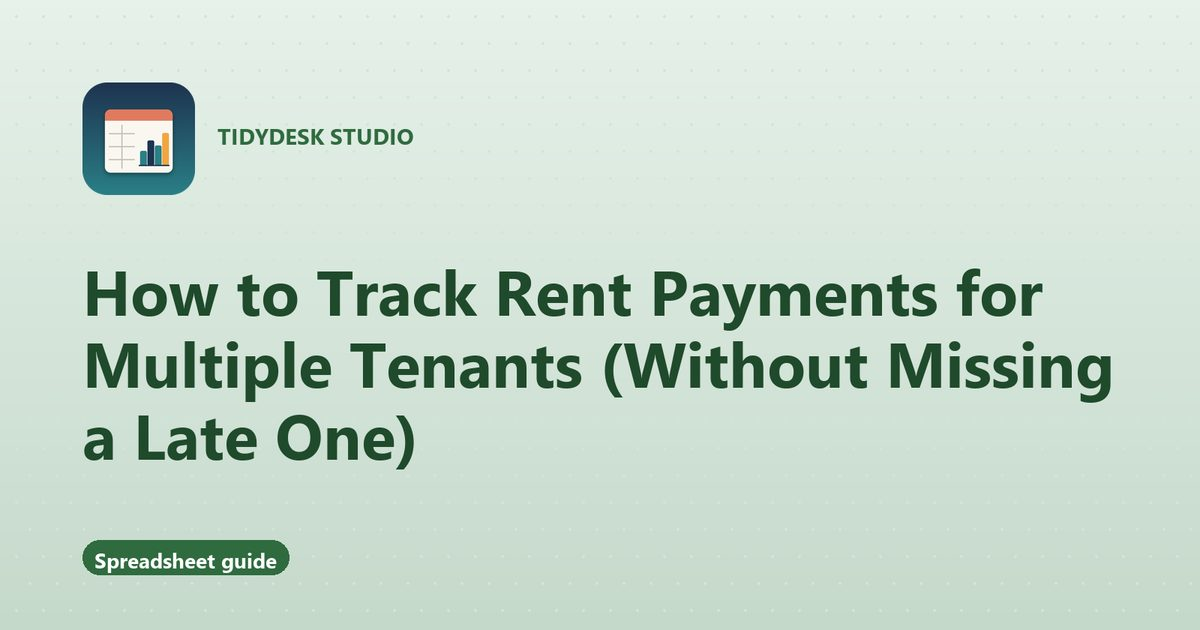
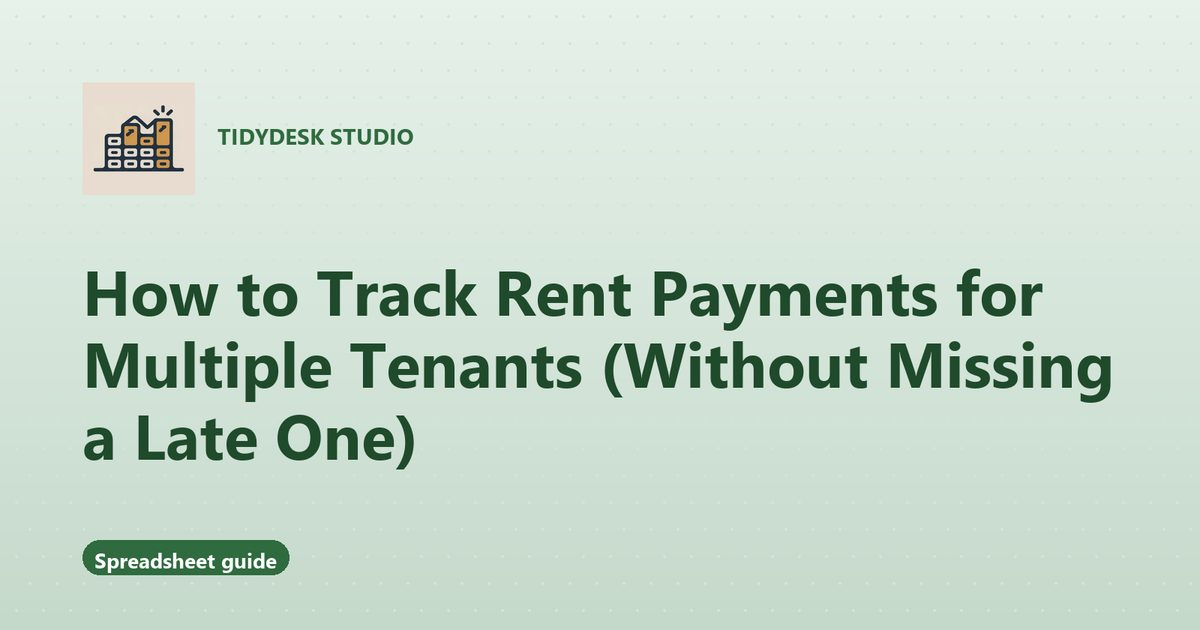
Update site 2026-10-14T17:18:44

Changed region(s): [[0.0617, 0.1206, 0.185, 0.3317]]

diff --git a/templates/index.html b/templates/index.html
@@ -1,10 +1,10 @@
 <!doctype html><html lang="en"><head><meta charset="utf-8"><meta name="google-site-verification" content="f2yMZH7r8XQP9Kbyf-WrSy3Cap5xHc4gH3fEAxaJcUY"><meta name="viewport" content="width=device-width,initial-scale=1">
 <title>All Templates | TidyDesk Studio</title><meta name="description" content="Ready-to-use Excel and Google Sheets templates: invoices, rent, budgets, inventory, clients and more."><link rel="canonical" href="https://tidydeskstudio.github.io/templates/">
-<meta property="og:title" content="All Templates | TidyDesk Studio"><meta property="og:description" content="Ready-to-use Excel and Google Sheets templates: invoices, rent, budgets, inventory, clients and more."><meta property="og:image" content="https://tidydeskstudio.github.io/img/logo.png"><meta property="og:url" content="https://tidydeskstudio.github.io/templates/">
+<meta property="og:title" content="All Templates | TidyDesk Studio"><meta property="og:description" content="Ready-to-use Excel and Google Sheets templates: invoices, rent, budgets, inventory, clients and more."><meta property="og:image" content="https://tidydeskstudio.github.io/img/og.png"><meta property="og:url" content="https://tidydeskstudio.github.io/templates/">
 <meta name="twitter:card" content="summary_large_image"><link rel="icon" href="/img/logo.png"><link rel="alternate" type="application/rss+xml" href="/feed.xml" title="TidyDesk Studio">
 <link rel="stylesheet" href="/style.css"></head><body>
 <header class="top"><div class="in"><a class="brand" href="/"><img src="/img/logo.png" alt="">TidyDesk Studio</a>
 <nav><a href="/">Guides</a><a href="/templates/">Templates</a></nav></div></header>
-<div class="wrap"><section class="hero"><h1>All templates</h1><p>Every template works in Excel and Google Sheets, includes sample data and a quick start guide.</p></section><div class="grid"><div class="card"><img src="/img/products/TD-0015.jpg" alt="Job Application Tracker" loading="lazy"><div class="b"><h3>Job Application Tracker</h3><p>Stay on top of every application and follow-up - and learn which job sources actually reply.</p><div class="btns"><a class="btn alt" href="https://payhip.com/b/9mbPH">Get it on Payhip</a></div></div></div><div class="card"><img src="/img/products/TD-0014.jpg" alt="Tutor Lesson &amp; Payment Tracker" loading="lazy"><div class="b"><h3>Tutor Lesson &amp; Payment Tracker</h3><p>Every lesson, every rate and every unpaid fee - plus a monthly total for each family.</p><div class="btns"><a class="btn alt" href="https://payhip.com/b/scAxP">Get it on Payhip</a></div></div></div><div class="card"><img src="/img/products/TD-0013.jpg" alt="Personal Trainer Client &amp; Session Tracker" loading="lazy"><div class="b"><h3>Personal Trainer Client &amp; Session Tracker</h3><p>Know exactly how many sessions each client has left - and who owes you money.</p><div class="btns"><a class="btn alt" href="https://payhip.com/b/rY05O">Get it on Payhip</a></div></div></div><div class="card"><img src="/img/products/TD-0012.jpg" alt="Freelance Client CRM &amp; Sales Pipeline" loading="lazy"><div class="b"><h3>Freelance Client CRM &amp; Sales Pipeline</h3><p>A simple CRM for freelancers: leads, follow-ups, weighted pipeline and win rate - no subscription.</p><div class="btns"><a class="btn alt" href="https://payhip.com/b/6C20t">Get it on Payhip</a></div></div></div><div class="card"><img src="/img/products/TD-0011.jpg" alt="Content Creator Brand Deal Tracker" loading="lazy"><div class="b"><h3>Content Creator Brand Deal Tracker</h3><p>Keep every sponsorship organised - from first pitch to paid invoice.</p><div class="btns"><a class="btn alt" href="https://payhip.com/b/kjqQZ">Get it on Payhip</a></div></div></div><div class="card"><img src="/img/products/TD-0010.jpg" alt="Business Mileage Log &amp; Deduction Tracker" loading="lazy"><div class="b"><h3>Business Mileage Log &amp; Deduction Tracker</h3><p>A simple mileage log that adds up your business distance and claim value for tax time.</p><div class="btns"><a class="btn" href="https://tidydeskstudio.gumroad.com/l/business-mileage-log">Get it on Gumroad</a><a class="btn alt" href="https://payhip.com/b/9zkqJ">Get it on Payhip</a></div></div></div><div class="card"><img src="/img/products/TD-0009.jpg" alt="Debt Payoff Tracker" loading="lazy"><div class="b"><h3>Debt Payoff Tracker</h3><p>Watch every debt shrink. Payments, balances, % paid off and months left - all in one sheet.</p><div class="btns"><a class="btn" href="https://tidydeskstudio.gumroad.com/l/debt-payoff-tracker">Get it on Gumroad</a><a class="btn alt" href="https://payhip.com/b/cjfL3">Get it on Payhip</a></div></div></div><div class="card"><img src="/img/products/TD-0008.jpg" alt="Household Budget &amp; Bill Tracker" loading="lazy"><div class="b"><h3>Household Budget &amp; Bill Tracker</h3><p>A calm, simple monthly budget: categories, bills with due dates, and a clear view of where your money goes.</p><div class="btns"><a class="btn" href="https://tidydeskstudio.gumroad.com/l/household-budget-bill-tracker">Get it on Gumroad</a><a class="btn alt" href="https://payhip.com/b/NSqpe">Get it on Payhip</a></div></div></div><div class="card"><img src="/img/products/TD-0007.jpg" alt="Wedding Budget &amp; Guest List Planner" loading="lazy"><div class="b"><h3>Wedding Budget &amp; Guest List Planner</h3><p>One planner for the money and the guests: budget, supplier payments, RSVPs and meals.</p><div class="btns"><a class="btn" href="https://tidydeskstudio.gumroad.com/l/wedding-budget-guest-planner">Get it on Gumroad</a><a class="btn alt" href="https://payhip.com/b/q8N2k">Get it on Payhip</a></div></div></div><div class="card"><img src="/img/products/TD-0006.jpg" alt="Home Bakery Order &amp; Profit Tracker" loading="lazy"><div class="b"><h3>Home Bakery Order &amp; Profit Tracker</h3><p>Every custom order, deposit and pickup date in one place - plus what you actually earn.</p><div class="btns"><a class="btn" href="https://tidydeskstudio.gumroad.com/l/home-bakery-order-tracker">Get it on Gumroad</a><a class="btn alt" href="https://payhip.com/b/TrdQ7">Get it on Payhip</a></div></div></div><div class="card"><img src="/img/products/TD-0005.jpg" alt="Cleaning Business Job &amp; Client Tracker" loading="lazy"><div class="b"><h3>Cleaning Business Job &amp; Client Tracker</h3><p>Run your cleaning business from one sheet - jobs, clients, unpaid invoices and real profit.</p><div class="btns"><a class="btn" href="https://tidydeskstudio.gumroad.com/l/cleaning-business-job-client-tracker">Get it on Gumroad</a><a class="btn alt" href="https://payhip.com/b/ATamw">Get it on Payhip</a></div></div></div><div class="card"><img src="/img/products/TD-0004.jpg" alt="Handmade Product Pricing Calculator" loading="lazy"><div class="b"><h3>Handmade Product Pricing Calculator</h3><p>Stop guessing your prices. Turn materials, time and fees into wholesale and retail prices that actually pay you.</p><div class="btns"><a class="btn" href="https://tidydeskstudio.gumroad.com/l/handmade-product-pricing-calculator">Get it on Gumroad</a><a class="btn alt" href="https://payhip.com/b/7B1Kb">Get it on Payhip</a></div></div></div><div class="card"><img src="/img/products/TD-0003.jpg" alt="Reseller Inventory &amp; Profit Tracker" loading="lazy"><div class="b"><h3>Reseller Inventory &amp; Profit Tracker</h3><p>See your real profit on every flip - after fees, shipping and expenses.</p><div class="btns"><a class="btn" href="https://tidydeskstudio.gumroad.com/l/reseller-inventory-profit-tracker">Get it on Gumroad</a><a class="btn alt" href="https://payhip.com/b/MxQuJ">Get it on Payhip</a></div></div></div><div class="card"><img src="/img/products/TD-0002.jpg" alt="Landlord Rental Property Tracker" loading="lazy"><div class="b"><h3>Landlord Rental Property Tracker</h3><p>Know which rentals actually make money - rent, late payments, expenses and yield per property.</p><div class="btns"><a class="btn" href="https://tidydeskstudio.gumroad.com/l/landlord-rental-property-tracker">Get it on Gumroad</a><a class="btn alt" href="https://payhip.com/b/vM5tR">Get it on Payhip</a></div></div></div><div class="card"><img src="/img/products/TD-0001.jpg" alt="Freelancer Invoice &amp; Payment Tracker" loading="lazy"><div class="b"><h3>Freelancer Invoice &amp; Payment Tracker</h3><p>Track every invoice, spot late payers and see your real income - in Excel or Google Sheets.</p><div class="btns"><a class="btn" href="https://tidydeskstudio.gumroad.com/l/freelancer-invoice-payment-tracker">Get it on Gumroad</a><a class="btn alt" href="https://payhip.com/b/x9Auv">Get it on Payhip</a></div></div></div></div></div>
+<div class="wrap"><section class="hero"><h1>All templates</h1><p>Every template works in Excel and Google Sheets, includes sample data and a quick start guide.</p></section><div class="grid"><div class="card"><img src="/img/products/TD-0025.jpg" alt="Vehicle Maintenance &amp; Fuel Log" loading="lazy"><div class="b"><h3>Vehicle Maintenance &amp; Fuel Log</h3><p>Fuel, services and maintenance reminders for every car you own - with real cost per mile or km.</p><div class="btns"><a class="btn" href="https://tidydeskstudio.gumroad.com/l/vehicle-maintenance-fuel-log">Get it on Gumroad</a></div></div></div><div class="card"><img src="/img/products/TD-0024.jpg" alt="Home Maintenance Schedule &amp; Repair Log" loading="lazy"><div class="b"><h3>Home Maintenance Schedule &amp; Repair Log</h3><p>A simple home maintenance schedule with repair records, contractors and warranty alerts.</p><div class="btns"><a class="btn" href="https://tidydeskstudio.gumroad.com/l/home-maintenance-schedule-repair-log">Get it on Gumroad</a></div></div></div><div class="card"><img src="/img/products/TD-0023.jpg" alt="Dog Grooming Appointment &amp; Client Tracker" loading="lazy"><div class="b"><h3>Dog Grooming Appointment &amp; Client Tracker</h3><p>Every dog, owner, coat note and appointment in one place - with rebook dates and no-show tracking.</p><div class="btns"><a class="btn" href="https://tidydeskstudio.gumroad.com/l/dog-grooming-appointment-tracker">Get it on Gumroad</a></div></div></div><div class="card"><img src="/img/products/TD-0022.jpg" alt="Real Estate Agent Lead &amp; Commission Tracker" loading="lazy"><div class="b"><h3>Real Estate Agent Lead &amp; Commission Tracker</h3><p>Every lead, follow-up and commission in one sheet - see what&#x27;s coming and what you&#x27;re owed.</p><div class="btns"><a class="btn" href="https://tidydeskstudio.gumroad.com/l/real-estate-agent-lead-commission-tracker">Get it on Gumroad</a></div></div></div><div class="card"><img src="/img/products/TD-0021.jpg" alt="Volunteer Hours &amp; Shift Tracker" loading="lazy"><div class="b"><h3>Volunteer Hours &amp; Shift Tracker</h3><p>Track volunteer shifts and hours by person, program and month - ready for grant reports.</p><div class="btns"><a class="btn" href="https://tidydeskstudio.gumroad.com/l/volunteer-hours-shift-tracker">Get it on Gumroad</a></div></div></div><div class="card"><img src="/img/products/TD-0020.jpg" alt="Food Truck &amp; Small Kitchen Recipe Cost Calculator" loading="lazy"><div class="b"><h3>Food Truck &amp; Small Kitchen Recipe Cost Calculator</h3><p>Know the real cost of every plate - and when a price rise means it&#x27;s time to re-price.</p><div class="btns"><a class="btn" href="https://tidydeskstudio.gumroad.com/l/food-truck-recipe-cost-calculator">Get it on Gumroad</a></div></div></div><div class="card"><img src="/img/products/TD-0019.jpg" alt="Photographer Client Booking &amp; Shoot Tracker" loading="lazy"><div class="b"><h3>Photographer Client Booking &amp; Shoot Tracker</h3><p>Every inquiry, shoot, deposit and gallery deadline in one place - so nothing slips.</p><div class="btns"><a class="btn" href="https://tidydeskstudio.gumroad.com/l/photographer-client-shoot-tracker">Get it on Gumroad</a></div></div></div><div class="card"><img src="/img/products/TD-0018.jpg" alt="Lawn Care Job, Route &amp; Client Tracker" loading="lazy"><div class="b"><h3>Lawn Care Job, Route &amp; Client Tracker</h3><p>Clients, routes, quotes and unpaid jobs for your lawn care business - in one simple sheet.</p><div class="btns"><a class="btn" href="https://tidydeskstudio.gumroad.com/l/lawn-care-job-route-tracker">Get it on Gumroad</a></div></div></div><div class="card"><img src="/img/products/TD-0017.jpg" alt="Vacation Rental Host Booking &amp; Expense Tracker" loading="lazy"><div class="b"><h3>Vacation Rental Host Booking &amp; Expense Tracker</h3><p>Know what each rental really earns - after channel fees, cleaning and running costs.</p><div class="btns"><a class="btn" href="https://tidydeskstudio.gumroad.com/l/vacation-rental-host-tracker">Get it on Gumroad</a></div></div></div><div class="card"><img src="/img/products/TD-0016.jpg" alt="Holiday Gift Budget &amp; Shopping Tracker" loading="lazy"><div class="b"><h3>Holiday Gift Budget &amp; Shopping Tracker</h3><p>Keep holiday spending on track - a budget per person, every gift from idea to wrapped.</p><div class="btns"><a class="btn" href="https://tidydeskstudio.gumroad.com/l/holiday-gift-budget-tracker">Get it on Gumroad</a></div></div></div><div class="card"><img src="/img/products/TD-0015.jpg" alt="Job Application Tracker" loading="lazy"><div class="b"><h3>Job Application Tracker</h3><p>Stay on top of every application and follow-up - and learn which job sources actually reply.</p><div class="btns"><a class="btn alt" href="https://payhip.com/b/9mbPH">Get it on Payhip</a></div></div></div><div class="card"><img src="/img/products/TD-0014.jpg" alt="Tutor Lesson &amp; Payment Tracker" loading="lazy"><div class="b"><h3>Tutor Lesson &amp; Payment Tracker</h3><p>Every lesson, every rate and every unpaid fee - plus a monthly total for each family.</p><div class="btns"><a class="btn alt" href="https://payhip.com/b/scAxP">Get it on Payhip</a></div></div></div><div class="card"><img src="/img/products/TD-0013.jpg" alt="Personal Trainer Client &amp; Session Tracker" loading="lazy"><div class="b"><h3>Personal Trainer Client &amp; Session Tracker</h3><p>Know exactly how many sessions each client has left - and who owes you money.</p><div class="btns"><a class="btn alt" href="https://payhip.com/b/rY05O">Get it on Payhip</a></div></div></div><div class="card"><img src="/img/products/TD-0012.jpg" alt="Freelance Client CRM &amp; Sales Pipeline" loading="lazy"><div class="b"><h3>Freelance Client CRM &amp; Sales Pipeline</h3><p>A simple CRM for freelancers: leads, follow-ups, weighted pipeline and win rate - no subscription.</p><div class="btns"><a class="btn alt" href="https://payhip.com/b/6C20t">Get it on Payhip</a></div></div></div><div class="card"><img src="/img/products/TD-0011.jpg" alt="Content Creator Brand Deal Tracker" loading="lazy"><div class="b"><h3>Content Creator Brand Deal Tracker</h3><p>Keep every sponsorship organised - from first pitch to paid invoice.</p><div class="btns"><a class="btn alt" href="https://payhip.com/b/kjqQZ">Get it on Payhip</a></div></div></div><div class="card"><img src="/img/products/TD-0010.jpg" alt="Business Mileage Log &amp; Deduction Tracker" loading="lazy"><div class="b"><h3>Business Mileage Log &amp; Deduction Tracker</h3><p>A simple mileage log that adds up your business distance and claim value for tax time.</p><div class="btns"><a class="btn" href="https://tidydeskstudio.gumroad.com/l/business-mileage-log">Get it on Gumroad</a><a class="btn alt" href="https://payhip.com/b/9zkqJ">Get it on Payhip</a></div></div></div><div class="card"><img src="/img/products/TD-0009.jpg" alt="Debt Payoff Tracker" loading="lazy"><div class="b"><h3>Debt Payoff Tracker</h3><p>Watch every debt shrink. Payments, balances, % paid off and months left - all in one sheet.</p><div class="btns"><a class="btn" href="https://tidydeskstudio.gumroad.com/l/debt-payoff-tracker">Get it on Gumroad</a><a class="btn alt" href="https://payhip.com/b/cjfL3">Get it on Payhip</a></div></div></div><div class="card"><img src="/img/products/TD-0008.jpg" alt="Household Budget &amp; Bill Tracker" loading="lazy"><div class="b"><h3>Household Budget &amp; Bill Tracker</h3><p>A calm, simple monthly budget: categories, bills with due dates, and a clear view of where your money goes.</p><div class="btns"><a class="btn" href="https://tidydeskstudio.gumroad.com/l/household-budget-bill-tracker">Get it on Gumroad</a><a class="btn alt" href="https://payhip.com/b/NSqpe">Get it on Payhip</a></div></div></div><div class="card"><img src="/img/products/TD-0007.jpg" alt="Wedding Budget &amp; Guest List Planner" loading="lazy"><div class="b"><h3>Wedding Budget &amp; Guest List Planner</h3><p>One planner for the money and the guests: budget, supplier payments, RSVPs and meals.</p><div class="btns"><a class="btn" href="https://tidydeskstudio.gumroad.com/l/wedding-budget-guest-planner">Get it on Gumroad</a><a class="btn alt" href="https://payhip.com/b/q8N2k">Get it on Payhip</a></div></div></div><div class="card"><img src="/img/products/TD-0006.jpg" alt="Home Bakery Order &amp; Profit Tracker" loading="lazy"><div class="b"><h3>Home Bakery Order &amp; Profit Tracker</h3><p>Every custom order, deposit and pickup date in one place - plus what you actually earn.</p><div class="btns"><a class="btn" href="https://tidydeskstudio.gumroad.com/l/home-bakery-order-tracker">Get it on Gumroad</a><a class="btn alt" href="https://payhip.com/b/TrdQ7">Get it on Payhip</a></div></div></div><div class="card"><img src="/img/products/TD-0005.jpg" alt="Cleaning Business Job &amp; Client Tracker" loading="lazy"><div class="b"><h3>Cleaning Business Job &amp; Client Tracker</h3><p>Run your cleaning business from one sheet - jobs, clients, unpaid invoices and real profit.</p><div class="btns"><a class="btn" href="https://tidydeskstudio.gumroad.com/l/cleaning-business-job-client-tracker">Get it on Gumroad</a><a class="btn alt" href="https://payhip.com/b/ATamw">Get it on Payhip</a></div></div></div><div class="card"><img src="/img/products/TD-0004.jpg" alt="Handmade Product Pricing Calculator" loading="lazy"><div class="b"><h3>Handmade Product Pricing Calculator</h3><p>Stop guessing your prices. Turn materials, time and fees into wholesale and retail prices that actually pay you.</p><div class="btns"><a class="btn" href="https://tidydeskstudio.gumroad.com/l/handmade-product-pricing-calculator">Get it on Gumroad</a><a class="btn alt" href="https://payhip.com/b/7B1Kb">Get it on Payhip</a></div></div></div><div class="card"><img src="/img/products/TD-0003.jpg" alt="Reseller Inventory &amp; Profit Tracker" loading="lazy"><div class="b"><h3>Reseller Inventory &amp; Profit Tracker</h3><p>See your real profit on every flip - after fees, shipping and expenses.</p><div class="btns"><a class="btn" href="https://tidydeskstudio.gumroad.com/l/reseller-inventory-profit-tracker">Get it on Gumroad</a><a class="btn alt" href="https://payhip.com/b/MxQuJ">Get it on Payhip</a></div></div></div><div class="card"><img src="/img/products/TD-0002.jpg" alt="Landlord Rental Property Tracker" loading="lazy"><div class="b"><h3>Landlord Rental Property Tracker</h3><p>Know which rentals actually make money - rent, late payments, expenses and yield per property.</p><div class="btns"><a class="btn" href="https://tidydeskstudio.gumroad.com/l/landlord-rental-property-tracker">Get it on Gumroad</a><a class="btn alt" href="https://payhip.com/b/vM5tR">Get it on Payhip</a></div></div></div><div class="card"><img src="/img/products/TD-0001.jpg" alt="Freelancer Invoice &amp; Payment Tracker" loading="lazy"><div class="b"><h3>Freelancer Invoice &amp; Payment Tracker</h3><p>Track every invoice, spot late payers and see your real income - in Excel or Google Sheets.</p><div class="btns"><a class="btn" href="https://tidydeskstudio.gumroad.com/l/freelancer-invoice-payment-tracker">Get it on Gumroad</a><a class="btn alt" href="https://payhip.com/b/x9Auv">Get it on Payhip</a></div></div></div></div></div>
 <footer>TidyDesk Studio · Ready-to-use spreadsheet templates for small businesses and busy households ·
 <a href="https://tidydeskstudio.gumroad.com">Gumroad</a> · <a href="https://payhip.com/TidyDeskStudio">Get it on Payhip</a></footer></body></html>

diff --git a/index.html b/index.html
@@ -1,10 +1,10 @@
 <!doctype html><html lang="en"><head><meta charset="utf-8"><meta name="google-site-verification" content="f2yMZH7r8XQP9Kbyf-WrSy3Cap5xHc4gH3fEAxaJcUY"><meta name="viewport" content="width=device-width,initial-scale=1">
 <title>Spreadsheet Guides &amp; Templates | TidyDesk Studio</title><meta name="description" content="Practical spreadsheet guides and ready-made Excel and Google Sheets templates for small businesses, freelancers and households."><link rel="canonical" href="https://tidydeskstudio.github.io/">
-<meta property="og:title" content="Spreadsheet Guides &amp; Templates | TidyDesk Studio"><meta property="og:description" content="Practical spreadsheet guides and ready-made Excel and Google Sheets templates for small businesses, freelancers and households."><meta property="og:image" content="https://tidydeskstudio.github.io/img/logo.png"><meta property="og:url" content="https://tidydeskstudio.github.io/">
+<meta property="og:title" content="Spreadsheet Guides &amp; Templates | TidyDesk Studio"><meta property="og:description" content="Practical spreadsheet guides and ready-made Excel and Google Sheets templates for small businesses, freelancers and households."><meta property="og:image" content="https://tidydeskstudio.github.io/img/og.png"><meta property="og:url" content="https://tidydeskstudio.github.io/">
 <meta name="twitter:card" content="summary_large_image"><link rel="icon" href="/img/logo.png"><link rel="alternate" type="application/rss+xml" href="/feed.xml" title="TidyDesk Studio">
 <link rel="stylesheet" href="/style.css"></head><body>
 <header class="top"><div class="in"><a class="brand" href="/"><img src="/img/logo.png" alt="">TidyDesk Studio</a>
 <nav><a href="/">Guides</a><a href="/templates/">Templates</a></nav></div></header>
-<div class="wrap"><section class="hero"><h1>Practical spreadsheet guides for small businesses and busy households</h1><p>Step-by-step how-tos for tracking money, clients, jobs and home admin - plus ready-made templates when you would rather not build it yourself.</p></section><h2 class="sec">Latest guides</h2><div class="grid"><div class="card"><a href="/posts/track-rent-payments-multiple-tenants/"><img src="/img/posts/track-rent-payments-multiple-tenants.jpg" alt="" loading="lazy"></a><div class="b"><h3><a href="/posts/track-rent-payments-multiple-tenants/">How to Track Rent Payments for Multiple Tenants (Without Missing a Late One)</a></h3><p>A simple monthly system for logging rent, spotting late payments early and knowing what each property really earns.</p></div></div></div><h2 class="sec">Ready-made templates</h2><div class="grid"><div class="card"><img src="/img/products/TD-0015.jpg" alt="Job Application Tracker" loading="lazy"><div class="b"><h3>Job Application Tracker</h3><p>Stay on top of every application and follow-up - and learn which job sources actually reply.</p><div class="btns"><a class="btn alt" href="https://payhip.com/b/9mbPH">Get it on Payhip</a></div></div></div><div class="card"><img src="/img/products/TD-0014.jpg" alt="Tutor Lesson &amp; Payment Tracker" loading="lazy"><div class="b"><h3>Tutor Lesson &amp; Payment Tracker</h3><p>Every lesson, every rate and every unpaid fee - plus a monthly total for each family.</p><div class="btns"><a class="btn alt" href="https://payhip.com/b/scAxP">Get it on Payhip</a></div></div></div><div class="card"><img src="/img/products/TD-0013.jpg" alt="Personal Trainer Client &amp; Session Tracker" loading="lazy"><div class="b"><h3>Personal Trainer Client &amp; Session Tracker</h3><p>Know exactly how many sessions each client has left - and who owes you money.</p><div class="btns"><a class="btn alt" href="https://payhip.com/b/rY05O">Get it on Payhip</a></div></div></div><div class="card"><img src="/img/products/TD-0012.jpg" alt="Freelance Client CRM &amp; Sales Pipeline" loading="lazy"><div class="b"><h3>Freelance Client CRM &amp; Sales Pipeline</h3><p>A simple CRM for freelancers: leads, follow-ups, weighted pipeline and win rate - no subscription.</p><div class="btns"><a class="btn alt" href="https://payhip.com/b/6C20t">Get it on Payhip</a></div></div></div><div class="card"><img src="/img/products/TD-0011.jpg" alt="Content Creator Brand Deal Tracker" loading="lazy"><div class="b"><h3>Content Creator Brand Deal Tracker</h3><p>Keep every sponsorship organised - from first pitch to paid invoice.</p><div class="btns"><a class="btn alt" href="https://payhip.com/b/kjqQZ">Get it on Payhip</a></div></div></div><div class="card"><img src="/img/products/TD-0010.jpg" alt="Business Mileage Log &amp; Deduction Tracker" loading="lazy"><div class="b"><h3>Business Mileage Log &amp; Deduction Tracker</h3><p>A simple mileage log that adds up your business distance and claim value for tax time.</p><div class="btns"><a class="btn" href="https://tidydeskstudio.gumroad.com/l/business-mileage-log">Get it on Gumroad</a><a class="btn alt" href="https://payhip.com/b/9zkqJ">Get it on Payhip</a></div></div></div><div class="card"><img src="/img/products/TD-0009.jpg" alt="Debt Payoff Tracker" loading="lazy"><div class="b"><h3>Debt Payoff Tracker</h3><p>Watch every debt shrink. Payments, balances, % paid off and months left - all in one sheet.</p><div class="btns"><a class="btn" href="https://tidydeskstudio.gumroad.com/l/debt-payoff-tracker">Get it on Gumroad</a><a class="btn alt" href="https://payhip.com/b/cjfL3">Get it on Payhip</a></div></div></div><div class="card"><img src="/img/products/TD-0008.jpg" alt="Household Budget &amp; Bill Tracker" loading="lazy"><div class="b"><h3>Household Budget &amp; Bill Tracker</h3><p>A calm, simple monthly budget: categories, bills with due dates, and a clear view of where your money goes.</p><div class="btns"><a class="btn" href="https://tidydeskstudio.gumroad.com/l/household-budget-bill-tracker">Get it on Gumroad</a><a class="btn alt" href="https://payhip.com/b/NSqpe">Get it on Payhip</a></div></div></div></div><p><a href="/templates/">See all 15 templates</a></p></div>
+<div class="wrap"><section class="hero"><h1>Practical spreadsheet guides for small businesses and busy households</h1><p>Step-by-step how-tos for tracking money, clients, jobs and home admin - plus ready-made templates when you would rather not build it yourself.</p></section><h2 class="sec">Latest guides</h2><div class="grid"><div class="card"><a href="/posts/track-rent-payments-multiple-tenants/"><img src="/img/posts/track-rent-payments-multiple-tenants.jpg" alt="" loading="lazy"></a><div class="b"><h3><a href="/posts/track-rent-payments-multiple-tenants/">How to Track Rent Payments for Multiple Tenants (Without Missing a Late One)</a></h3><p>A simple monthly system for logging rent, spotting late payments early and knowing what each property really earns.</p></div></div></div><h2 class="sec">Ready-made templates</h2><div class="grid"><div class="card"><img src="/img/products/TD-0025.jpg" alt="Vehicle Maintenance &amp; Fuel Log" loading="lazy"><div class="b"><h3>Vehicle Maintenance &amp; Fuel Log</h3><p>Fuel, services and maintenance reminders for every car you own - with real cost per mile or km.</p><div class="btns"><a class="btn" href="https://tidydeskstudio.gumroad.com/l/vehicle-maintenance-fuel-log">Get it on Gumroad</a></div></div></div><div class="card"><img src="/img/products/TD-0024.jpg" alt="Home Maintenance Schedule &amp; Repair Log" loading="lazy"><div class="b"><h3>Home Maintenance Schedule &amp; Repair Log</h3><p>A simple home maintenance schedule with repair records, contractors and warranty alerts.</p><div class="btns"><a class="btn" href="https://tidydeskstudio.gumroad.com/l/home-maintenance-schedule-repair-log">Get it on Gumroad</a></div></div></div><div class="card"><img src="/img/products/TD-0023.jpg" alt="Dog Grooming Appointment &amp; Client Tracker" loading="lazy"><div class="b"><h3>Dog Grooming Appointment &amp; Client Tracker</h3><p>Every dog, owner, coat note and appointment in one place - with rebook dates and no-show tracking.</p><div class="btns"><a class="btn" href="https://tidydeskstudio.gumroad.com/l/dog-grooming-appointment-tracker">Get it on Gumroad</a></div></div></div><div class="card"><img src="/img/products/TD-0022.jpg" alt="Real Estate Agent Lead &amp; Commission Tracker" loading="lazy"><div class="b"><h3>Real Estate Agent Lead &amp; Commission Tracker</h3><p>Every lead, follow-up and commission in one sheet - see what&#x27;s coming and what you&#x27;re owed.</p><div class="btns"><a class="btn" href="https://tidydeskstudio.gumroad.com/l/real-estate-agent-lead-commission-tracker">Get it on Gumroad</a></div></div></div><div class="card"><img src="/img/products/TD-0021.jpg" alt="Volunteer Hours &amp; Shift Tracker" loading="lazy"><div class="b"><h3>Volunteer Hours &amp; Shift Tracker</h3><p>Track volunteer shifts and hours by person, program and month - ready for grant reports.</p><div class="btns"><a class="btn" href="https://tidydeskstudio.gumroad.com/l/volunteer-hours-shift-tracker">Get it on Gumroad</a></div></div></div><div class="card"><img src="/img/products/TD-0020.jpg" alt="Food Truck &amp; Small Kitchen Recipe Cost Calculator" loading="lazy"><div class="b"><h3>Food Truck &amp; Small Kitchen Recipe Cost Calculator</h3><p>Know the real cost of every plate - and when a price rise means it&#x27;s time to re-price.</p><div class="btns"><a class="btn" href="https://tidydeskstudio.gumroad.com/l/food-truck-recipe-cost-calculator">Get it on Gumroad</a></div></div></div><div class="card"><img src="/img/products/TD-0019.jpg" alt="Photographer Client Booking &amp; Shoot Tracker" loading="lazy"><div class="b"><h3>Photographer Client Booking &amp; Shoot Tracker</h3><p>Every inquiry, shoot, deposit and gallery deadline in one place - so nothing slips.</p><div class="btns"><a class="btn" href="https://tidydeskstudio.gumroad.com/l/photographer-client-shoot-tracker">Get it on Gumroad</a></div></div></div><div class="card"><img src="/img/products/TD-0018.jpg" alt="Lawn Care Job, Route &amp; Client Tracker" loading="lazy"><div class="b"><h3>Lawn Care Job, Route &amp; Client Tracker</h3><p>Clients, routes, quotes and unpaid jobs for your lawn care business - in one simple sheet.</p><div class="btns"><a class="btn" href="https://tidydeskstudio.gumroad.com/l/lawn-care-job-route-tracker">Get it on Gumroad</a></div></div></div></div><p><a href="/templates/">See all 25 templates</a></p></div>
 <footer>TidyDesk Studio · Ready-to-use spreadsheet templates for small businesses and busy households ·
 <a href="https://tidydeskstudio.gumroad.com">Gumroad</a> · <a href="https://payhip.com/TidyDeskStudio">Get it on Payhip</a></footer></body></html>

diff --git a/style.css b/style.css
@@ -1,5 +1,5 @@
 
-:root{--ink:#1e2a3a;--muted:#5b6778;--bg:#faf7f0;--card:#fff;--teal:#2a7f86;--navy:#1e3350;--line:#e6e1d6}
+:root{--ink:#1f2b3a;--muted:#5b6778;--bg:#f7f1e8;--card:#fff;--teal:#a86f22;--navy:#1f2b3a;--line:#e7dccb}
 *{box-sizing:border-box}body{margin:0;font-family:Georgia,'Times New Roman',serif;color:var(--ink);background:var(--bg);line-height:1.65}
 a{color:var(--teal)}header.top{background:var(--navy);color:#fff}header.top .in{max-width:1080px;margin:0 auto;padding:14px 20px;display:flex;align-items:center;gap:12px;justify-content:space-between;flex-wrap:wrap}
 header.top a{color:#fff;text-decoration:none;font-family:system-ui,Segoe UI,sans-serif}header.top .brand{display:flex;align-items:center;gap:10px;font-weight:700;font-size:20px}
